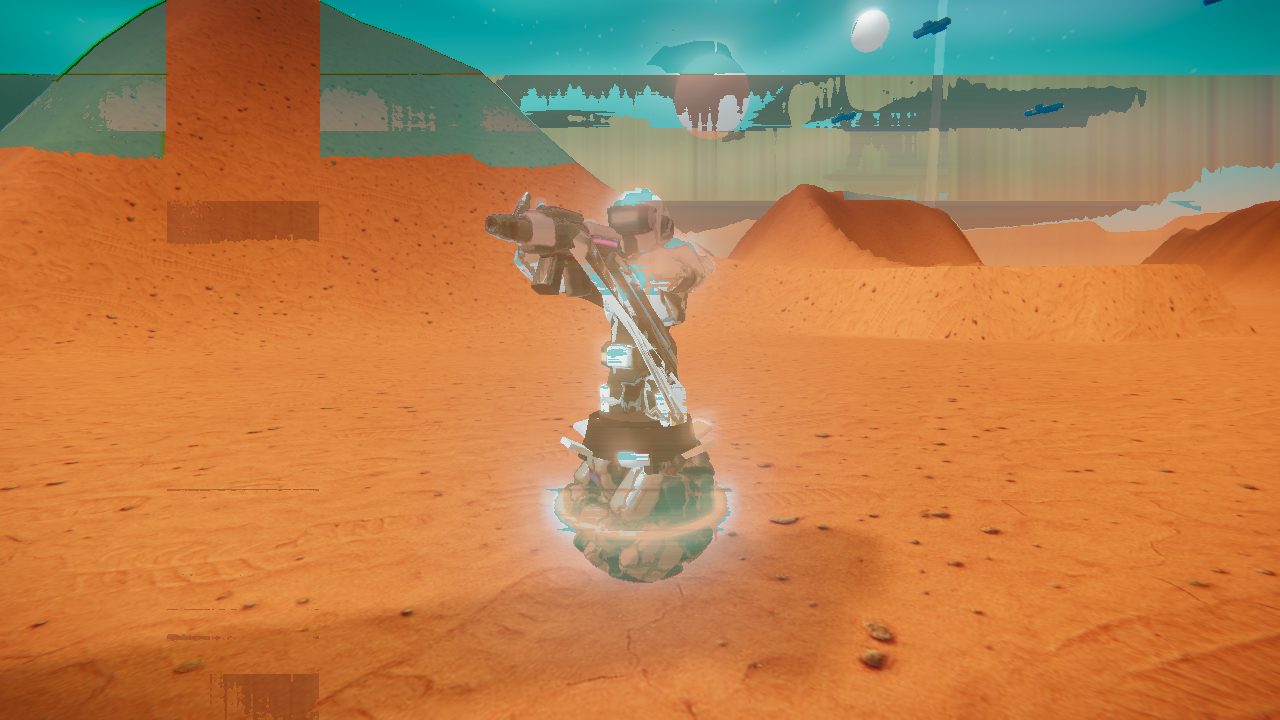
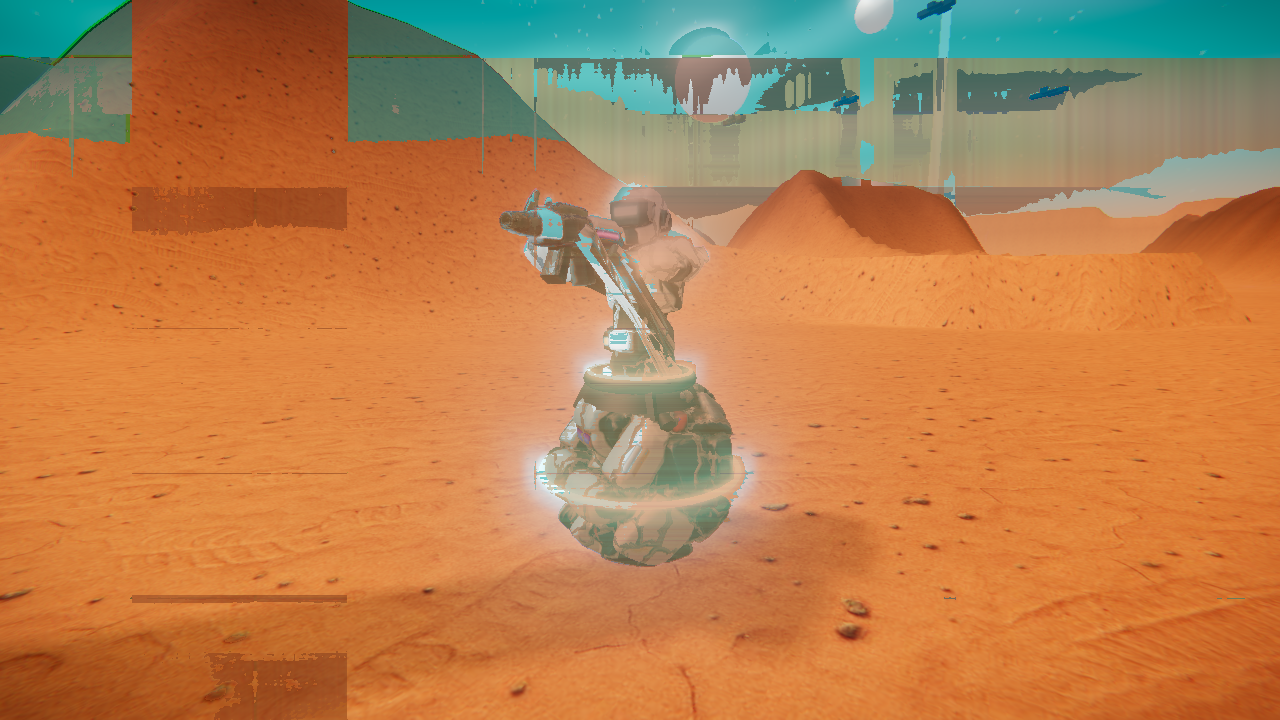
Ball mode v2: legs removed at the waist, larger sphere (r 0.58), waist collar housing

diff --git a/src/models/glbSoldier.js b/src/models/glbSoldier.js
@@ -292,7 +292,9 @@ function legless(custom) {
   if (custom.leglessGeo) return custom.leglessGeo;
   const f = measureBody(custom); const geo = custom.geometry; const pos = geo.attributes.position, nrm = geo.attributes.normal, uv = geo.attributes.uv; const idx = geo.index;
   const tri = idx ? idx.count / 3 : pos.count / 3; const P = [], Nn = [], U = []; const I = []; const remap = new Int32Array(pos.count).fill(-1);
-  const isLeg = (i) => pos.getY(i) < f.crotchY + 0.05 && Math.abs(pos.getX(i)) < f.hipX + 0.16;
+  const cutY = f.crotchY + 0.16; // waist line: everything below goes, except the hanging arms/hands
+  const isLeg = (i) => pos.getY(i) < cutY && !(Math.abs(pos.getX(i)) > f.armCx - 0.1 && pos.getY(i) > f.crotchY - 0.2);
+  custom.waistCut = cutY;
   const push = (i) => { if (remap[i] >= 0) return remap[i]; remap[i] = P.length / 3; P.push(pos.getX(i), pos.getY(i), pos.getZ(i)); if (nrm) Nn.push(nrm.getX(i), nrm.getY(i), nrm.getZ(i)); if (uv) U.push(uv.getX(i), uv.getY(i)); return remap[i]; };
   for (let t = 0; t < tri; t++) {
     const a = idx ? idx.getX(t * 3) : t * 3, b = idx ? idx.getX(t * 3 + 1) : t * 3 + 1, c = idx ? idx.getX(t * 3 + 2) : t * 3 + 2;
@@ -317,16 +319,14 @@ export function attachBall(model, radius = 0.44) {
   const ring = new THREE.Mesh(new THREE.TorusGeometry(radius * 0.98, 0.018, 8, 48), new THREE.MeshStandardMaterial({ color: '#00e5ff', emissive: '#00e5ff', emissiveIntensity: 1.1, roughness: 0.3 }));
   ring.rotation.x = Math.PI / 2; g.add(ring);
 
-  // gyro housing between ball and pelvis (does not roll): matte band, radial struts, overlapping skirt plates, thin inner ring
+  // waist collar at the top of the ball (does not roll): matte ring, four short struts, thin emissive lip, two vents
   const collar = new THREE.Group(); collar.name = 'collar';
   const matte = new THREE.MeshStandardMaterial({ color: '#2c3038', roughness: 0.55, metalness: 0.7 });
-  const plate = new THREE.MeshStandardMaterial({ color: '#d8d8dc', roughness: 0.5, metalness: 0.3 });
-  const band = new THREE.Mesh(new THREE.CylinderGeometry(radius * 0.62, radius * 0.7, 0.16, 24, 1, true), new THREE.MeshStandardMaterial({ color: '#2c3038', roughness: 0.55, metalness: 0.7, side: THREE.DoubleSide })); band.position.y = radius * 0.86; collar.add(band);
-  const hub = new THREE.Mesh(new THREE.CylinderGeometry(radius * 0.5, radius * 0.5, 0.08, 20), matte); hub.position.y = radius * 1.0; collar.add(hub);
-  for (let i = 0; i < 4; i++) { const a = (i / 4) * Math.PI * 2 + Math.PI / 4; const strut = new THREE.Mesh(new THREE.BoxGeometry(0.05, 0.22, 0.05), matte); strut.position.set(Math.cos(a) * radius * 0.6, radius * 0.78, Math.sin(a) * radius * 0.6); strut.rotation.z = Math.cos(a) * 0.35; strut.rotation.x = -Math.sin(a) * 0.35; collar.add(strut); }
-  for (let i = 0; i < 6; i++) { const a = (i / 6) * Math.PI * 2; const sk = new THREE.Mesh(new THREE.BoxGeometry(0.2, 0.03, 0.14), plate); sk.position.set(Math.cos(a) * radius * 0.74, radius * 0.72, Math.sin(a) * radius * 0.74); sk.rotation.y = -a; sk.rotation.z = 0.5; collar.add(sk); }
-  const lip = new THREE.Mesh(new THREE.TorusGeometry(radius * 0.56, 0.014, 8, 40), new THREE.MeshStandardMaterial({ color: '#00e5ff', emissive: '#00e5ff', emissiveIntensity: 1.6 })); lip.rotation.x = Math.PI / 2; lip.position.y = radius * 0.94; collar.add(lip);
-  for (let i = 0; i < 3; i++) { const a = (i / 3) * Math.PI * 2 + 0.3; const vent = new THREE.Mesh(new THREE.CylinderGeometry(0.03, 0.04, 0.06, 8), matte); vent.position.set(Math.cos(a) * radius * 0.66, radius * 0.66, Math.sin(a) * radius * 0.66); vent.rotation.z = Math.cos(a) * 0.9; vent.rotation.x = -Math.sin(a) * 0.9; collar.add(vent); }
+  const ringM = new THREE.Mesh(new THREE.TorusGeometry(radius * 0.48, 0.045, 10, 40), matte); ringM.rotation.x = Math.PI / 2; ringM.position.y = radius * 0.9; collar.add(ringM);
+  const cup = new THREE.Mesh(new THREE.CylinderGeometry(radius * 0.46, radius * 0.6, 0.14, 24, 1, true), new THREE.MeshStandardMaterial({ color: '#2c3038', roughness: 0.55, metalness: 0.7, side: THREE.DoubleSide })); cup.position.y = radius * 0.8; collar.add(cup);
+  for (let i = 0; i < 4; i++) { const a = (i / 4) * Math.PI * 2 + Math.PI / 4; const strut = new THREE.Mesh(new THREE.BoxGeometry(0.06, 0.16, 0.06), matte); strut.position.set(Math.cos(a) * radius * 0.54, radius * 0.72, Math.sin(a) * radius * 0.54); strut.rotation.z = Math.cos(a) * 0.5; strut.rotation.x = -Math.sin(a) * 0.5; collar.add(strut); }
+  const lip = new THREE.Mesh(new THREE.TorusGeometry(radius * 0.5, 0.014, 8, 40), new THREE.MeshStandardMaterial({ color: '#00e5ff', emissive: '#00e5ff', emissiveIntensity: 1.6 })); lip.rotation.x = Math.PI / 2; lip.position.y = radius * 0.96; collar.add(lip);
+  for (let i = 0; i < 2; i++) { const a = i * Math.PI + 0.6; const vent = new THREE.Mesh(new THREE.CylinderGeometry(0.035, 0.045, 0.07, 8), matte); vent.position.set(Math.cos(a) * radius * 0.62, radius * 0.6, Math.sin(a) * radius * 0.62); vent.rotation.z = Math.cos(a) * 1.0; vent.rotation.x = -Math.sin(a) * 1.0; collar.add(vent); }
   const roll = new THREE.Group(); roll.add(g); roll.position.y = radius;
   const holder = new THREE.Group(); holder.name = 'ballRig'; holder.add(roll); collar.position.y = radius; holder.add(collar);
   model.root.add(holder);
@@ -344,7 +344,7 @@ export function applyCustomBody(model, custom, opts = {}) {
     const sub = custom._legless || (custom._legless = { ...custom, geometry: legless(custom), skinnedGeo: null, _mats: custom._mats, fit: custom.fit });
     custom._legless.fit = custom.fit; skinned = skinToRig(sub, model.bones, model.root); custom._legless = sub;
     // torso rides higher: pelvis sits on top of the ball
-    const r = opts.ballRadius || 0.44; model.bones.root.position.y = r * 2 + 0.02; model.root.updateWorldMatrix(true, true);
+    const r = opts.ballRadius || 0.58; const cut = custom.waistCut ?? (custom.fit.crotchY + 0.16); model.ballRootY = (custom.fit.crotchY + 0.04) + (r * 2 - 0.05 - cut); model.bones.root.position.y = model.ballRootY; model.root.updateWorldMatrix(true, true);
     attachBall(model, r);
   } else skinned = skinToRig(custom, model.bones, model.root);
   if (opts.neon || opts.tint) { const key = 'mat:' + (opts.neon || '') + ':' + (opts.tint || ''); custom._mats = custom._mats || {}; if (!custom._mats[key]) { const m = custom.material.clone(); if (opts.tint) m.color.set(opts.tint); if (opts.neon) makeNeonMask(m, opts.neon); custom._mats[key] = m; } skinned.material = custom._mats[key]; }

diff --git a/src/models/soldier.js b/src/models/soldier.js
@@ -255,7 +255,7 @@ export function buildSoldier(styleName = 'vanguard', opts = {}) {
   // Use rest world matrices computed with root at origin: ensure bones' matrixWorld are rest
   // custom GLB bodies: vanguard (player + squad) and the sentinel trooper; procedural parts stay for gibs/ragdoll fallbacks
   const customKey = opts.custom !== undefined ? opts.custom : (styleName === 'vanguard' ? 'vanguard' : null);
-  if (customKey && CUSTOM.body[customKey]) { try { applyCustomBody(model, CUSTOM.body[customKey], { neon: customKey === 'vanguard' ? style.neon : '#ff3b1f', tint: customKey === 'vanguard' ? null : '#8a8a92', noLegs: customKey === 'vanguard', ballRadius: 0.44 }); } catch (e) { console.warn('[glb] custom body failed', e); } }
+  if (customKey && CUSTOM.body[customKey]) { try { applyCustomBody(model, CUSTOM.body[customKey], { neon: customKey === 'vanguard' ? style.neon : '#ff3b1f', tint: customKey === 'vanguard' ? null : '#8a8a92', noLegs: customKey === 'vanguard', ballRadius: 0.58 }); } catch (e) { console.warn('[glb] custom body failed', e); } }
   return model;
 }
 

diff --git a/src/entities/animator.js b/src/entities/animator.js
@@ -256,7 +256,7 @@ export class CharacterAnimator {
       B.thighL.rotation.x -= kL * 0.5; B.shinL.rotation.x += kL; B.footL.rotation.x -= kL * 0.5;
       B.thighR.rotation.x -= kR * 0.5; B.shinR.rotation.x += kR; B.footR.rotation.x -= kR * 0.5;
     } else { this.plantY = damp(this.plantY ?? 0, 0, 12, dt); this.plantL = damp(this.plantL ?? 0, 0, 12, dt); this.plantR = damp(this.plantR ?? 0, 0, 12, dt); }
-    B.root.position.y = (this.model?.ballRadius ? this.model.ballRadius * 2 + 0.02 : 0.98) + this.rootY + bob + (this.model?.ballRadius ? 0 : (this.plantY || 0));
+    B.root.position.y = (this.model?.ballRadius ? this.model.ballRootY : 0.98) + this.rootY + bob + (this.model?.ballRadius ? 0 : (this.plantY || 0));
     if (s.roll != null) { const k = Math.min(1, s.roll); B.root.rotation.set(-k * Math.PI * 2, 0, 0); B.root.scale.setScalar(1); }
     else if (s.transform != null) {
       // transformer tuck: the frame folds into a compact block, spins once, and unfolds
